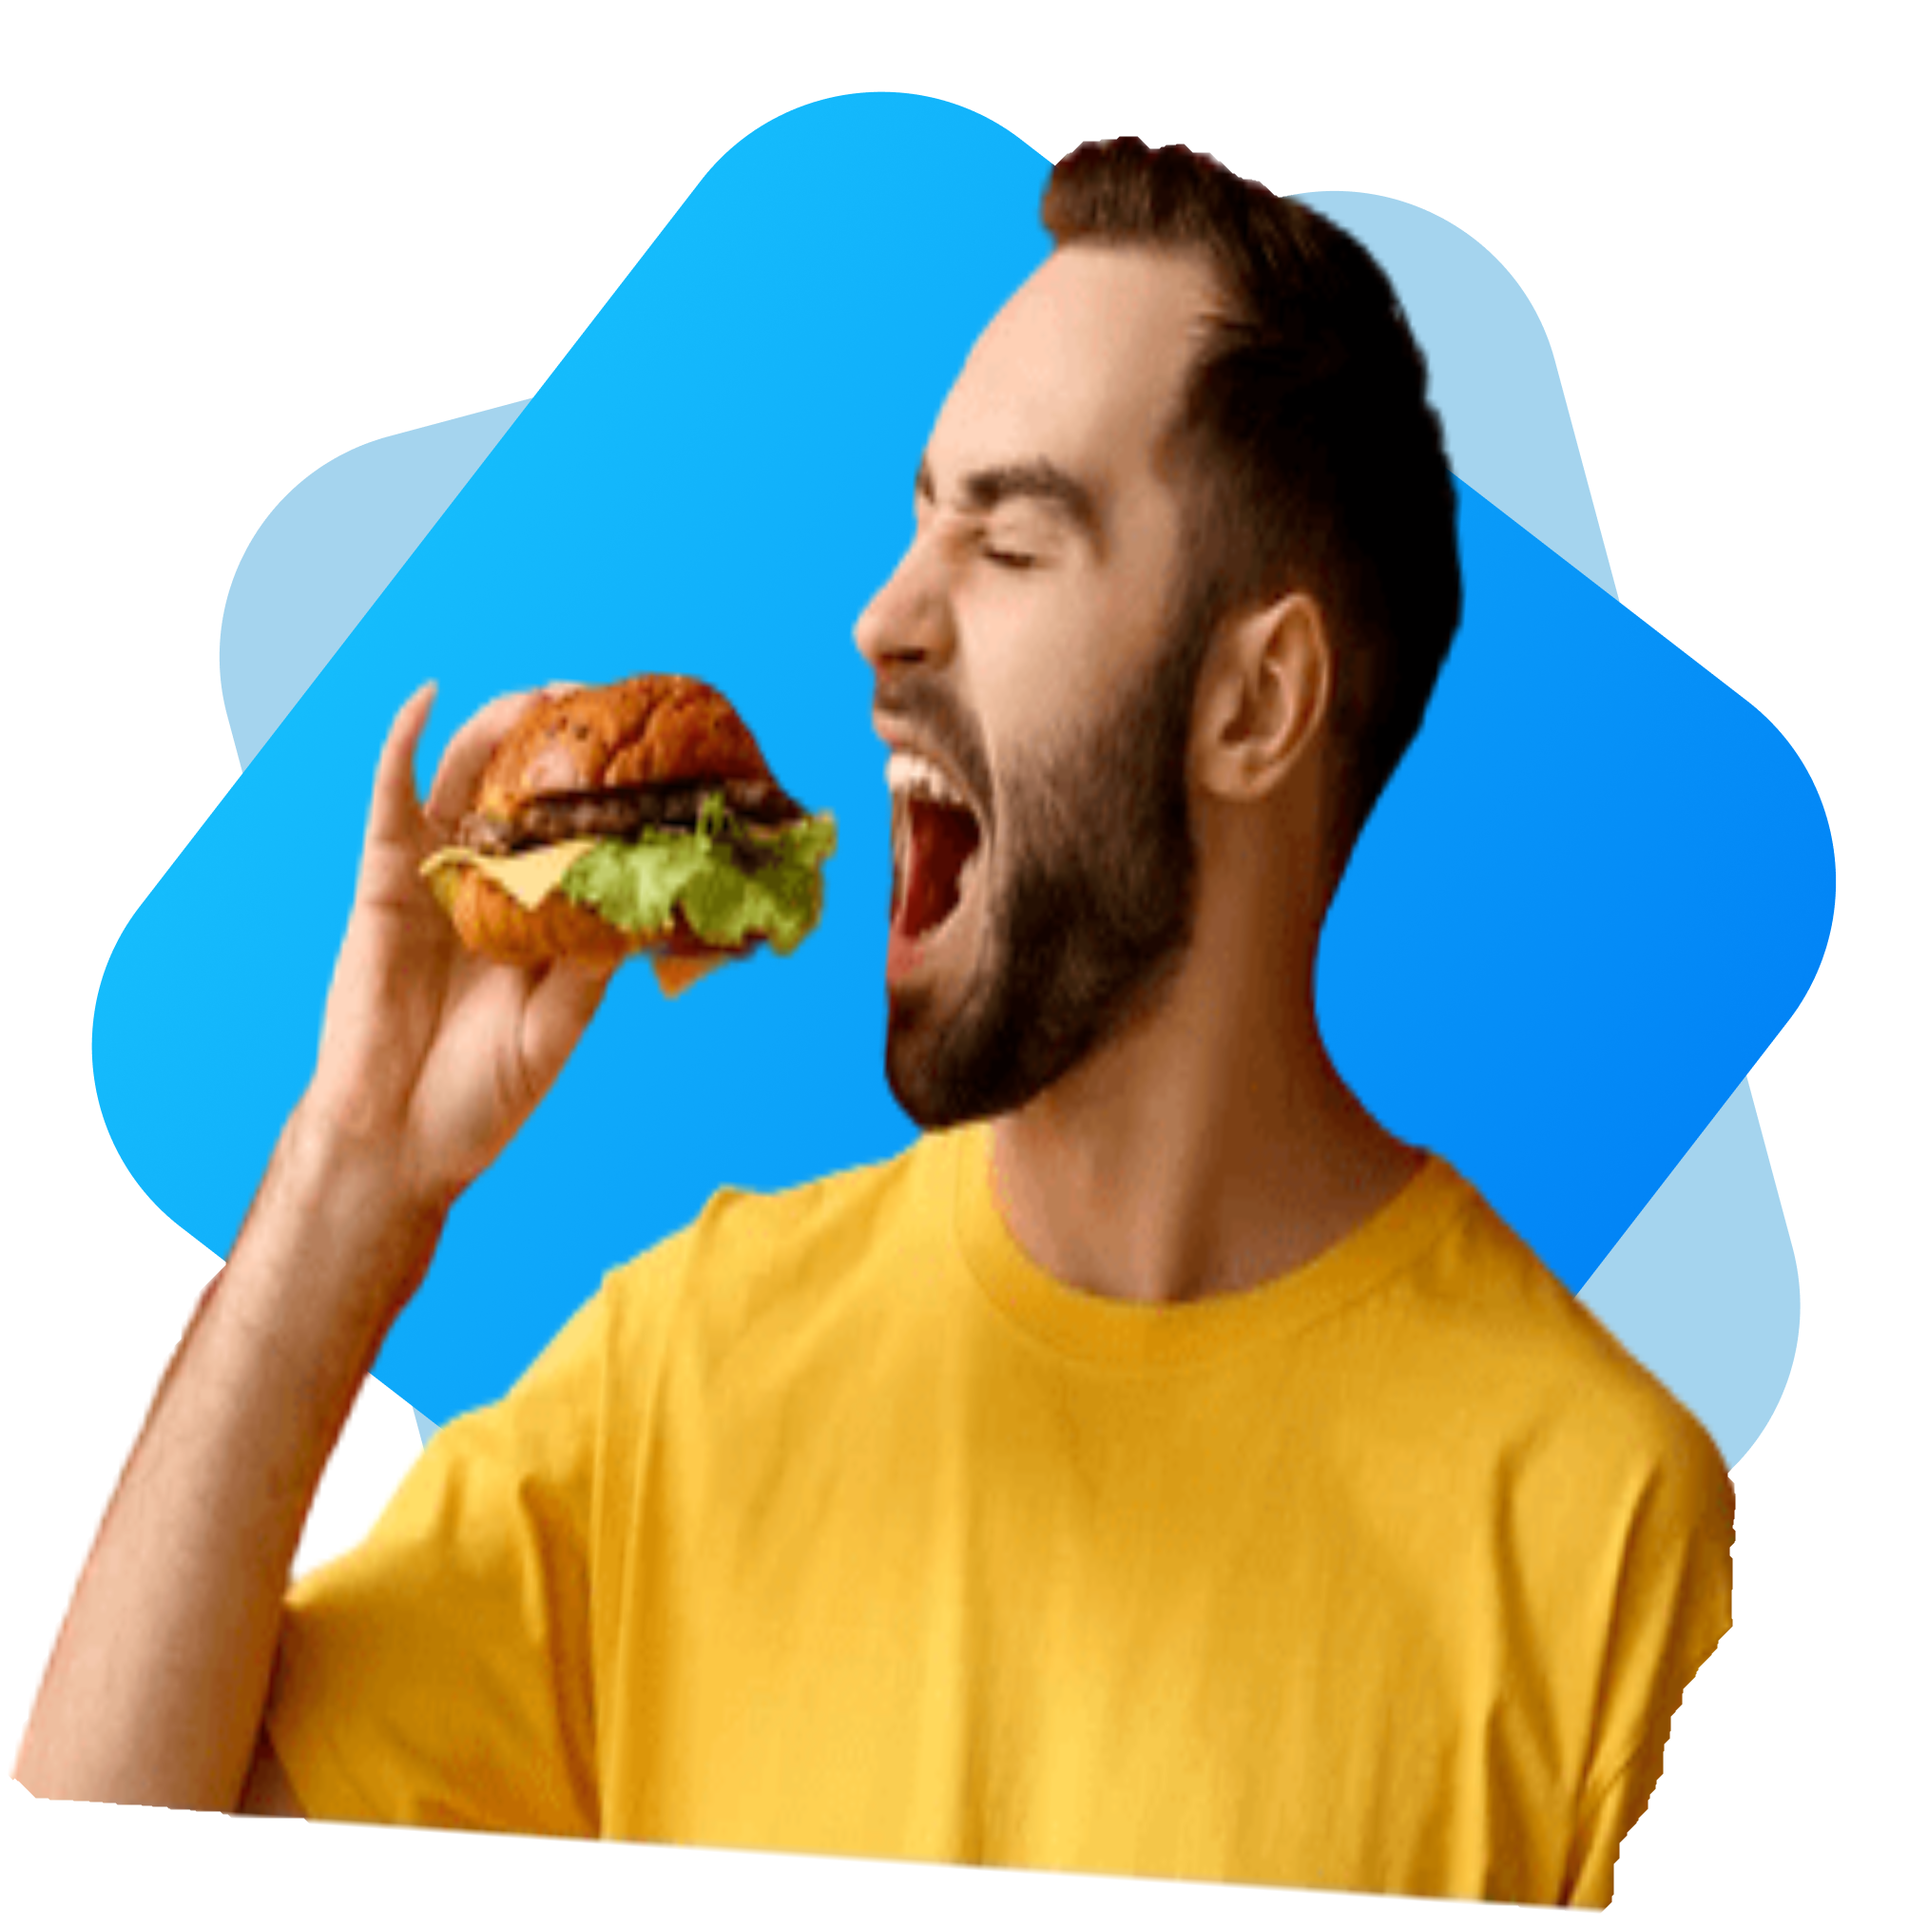
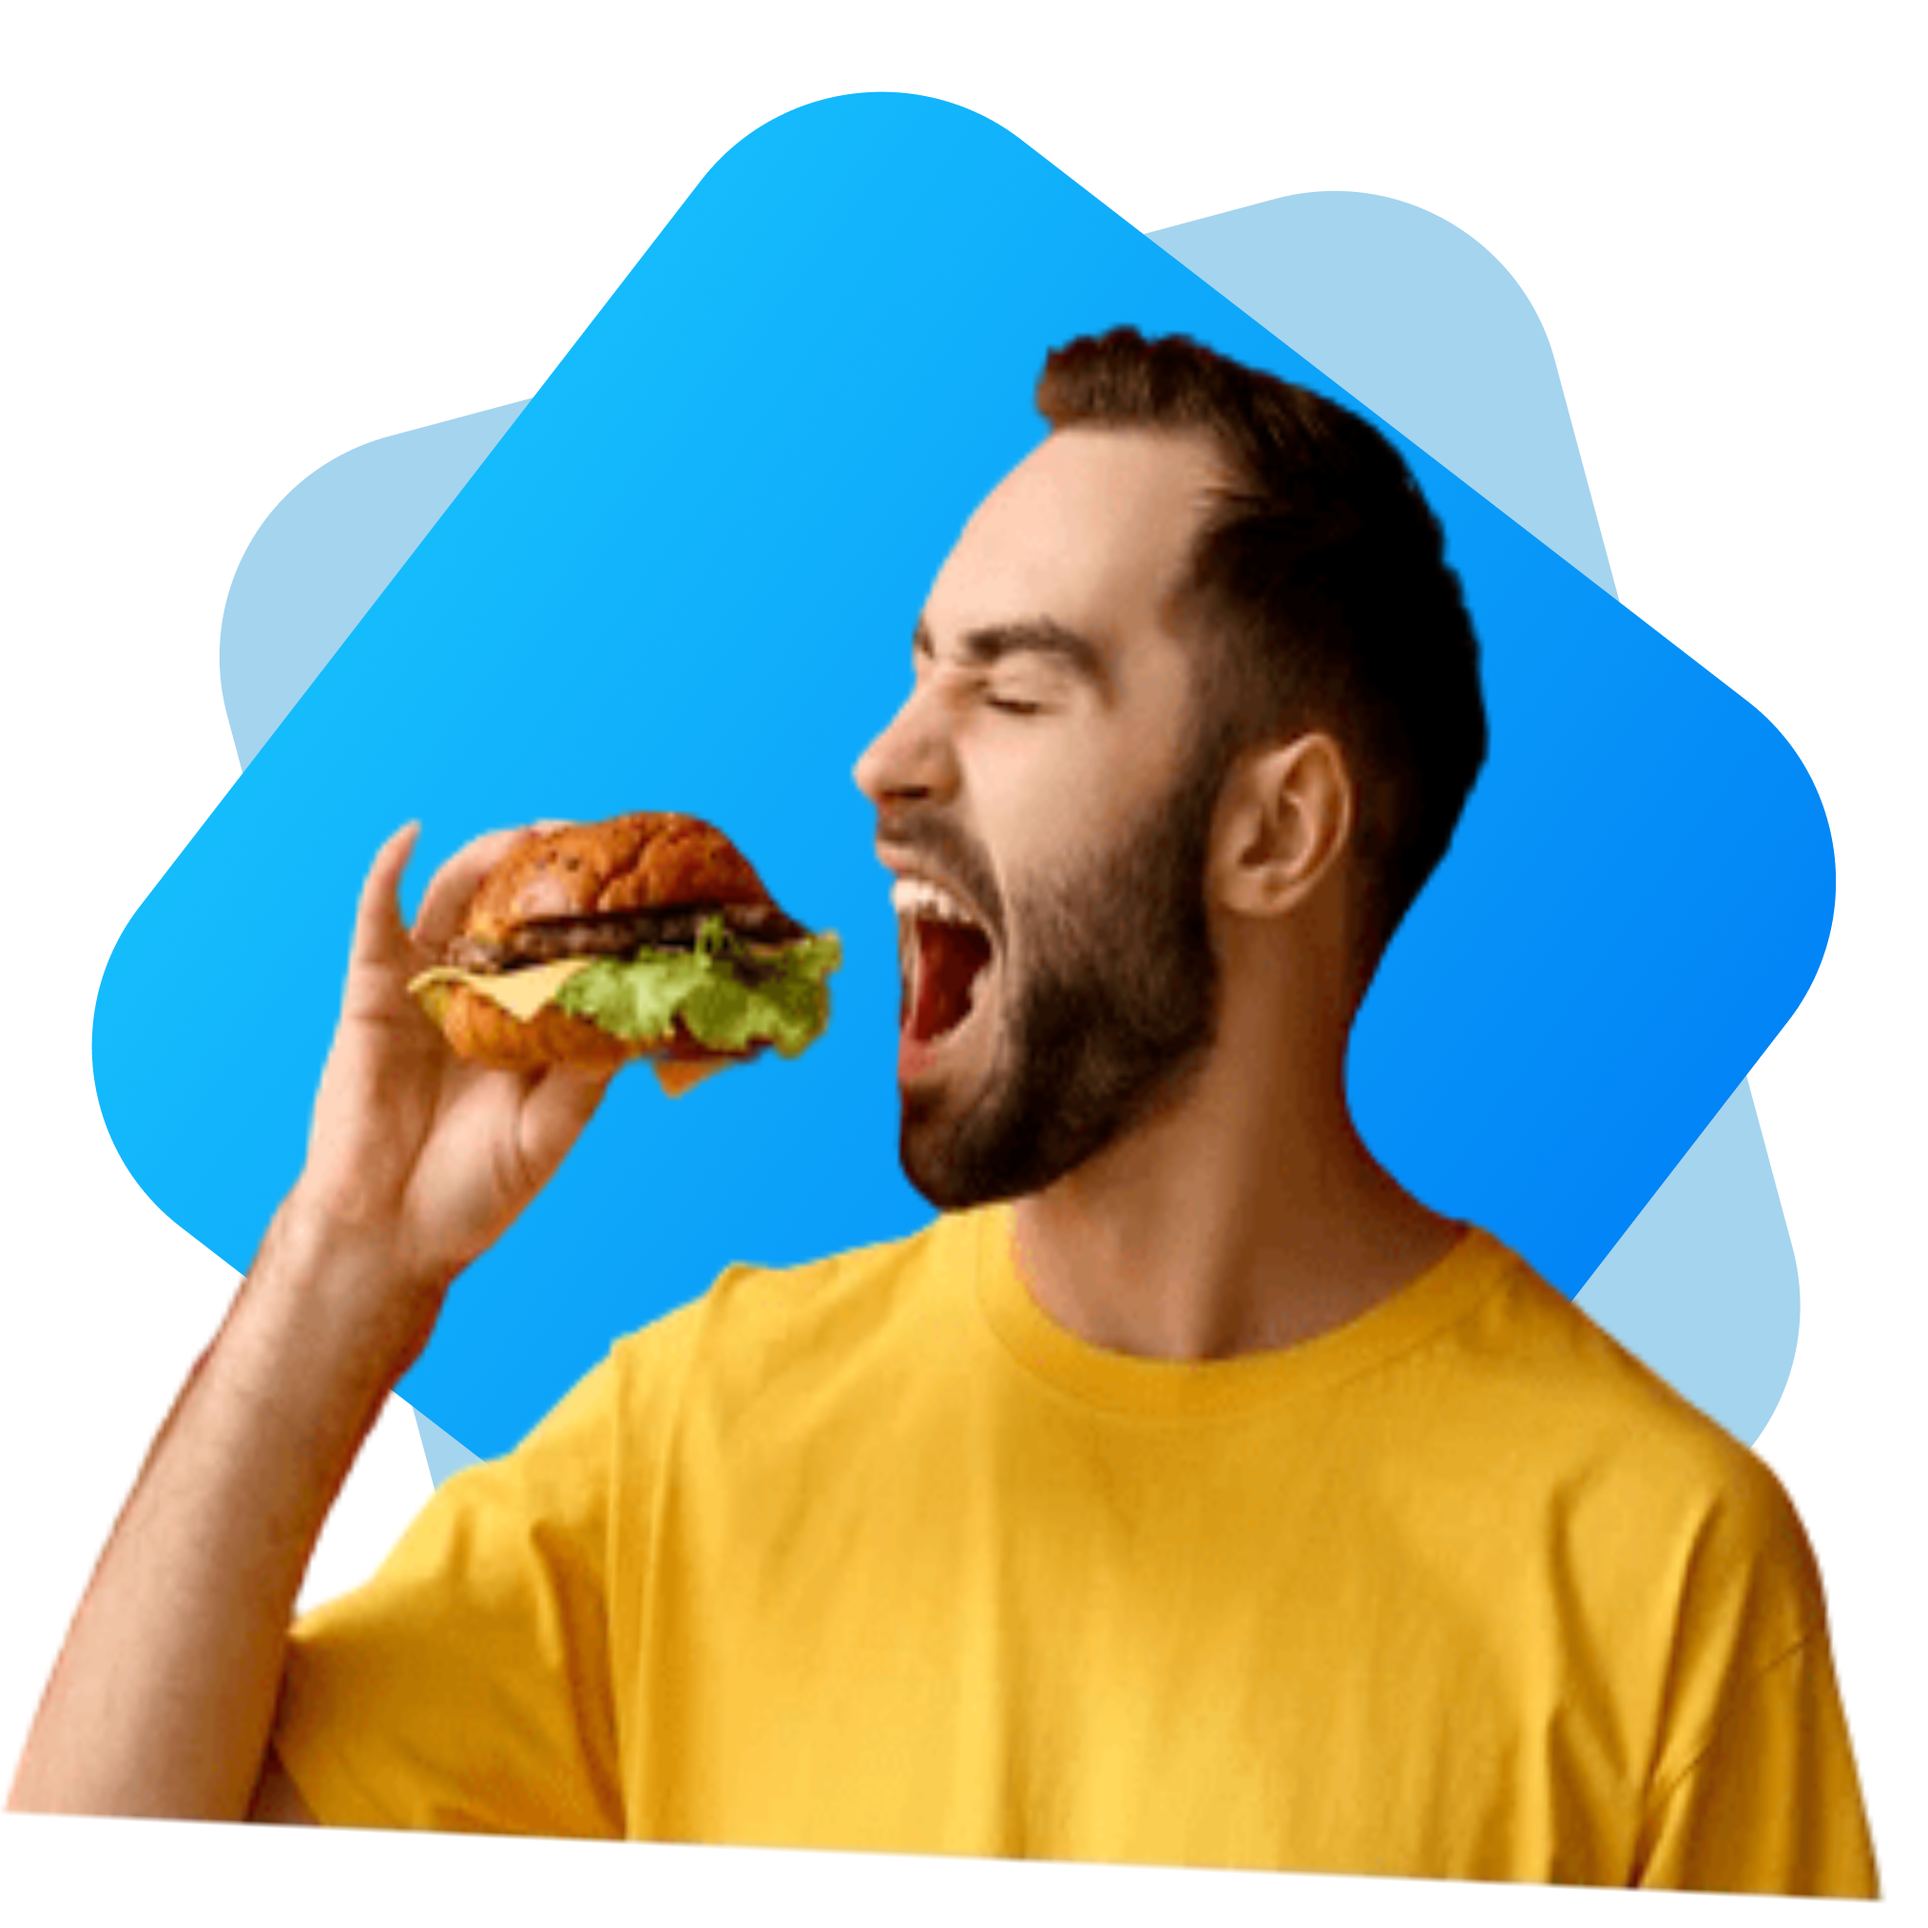
about section done

Changed region(s): [[0.0, 0.0621, 0.9941, 0.9941], [0.0311, 0.7766, 0.0621, 0.8388]]

diff --git a/index.html b/index.html
@@ -13,25 +13,45 @@
             <a href="#"><img src="images/logo.png" alt="logo"></a>
         </div>
         <ul class="menu">
-            <li><a href="home">home</a></li>
-            <li><a href="about">about us</a></li>
-            <li><a href="service">services</a></li>
-            <li><a href="contact">contact</a></li>
+            <li><a href="#home">home</a></li>
+            <li><a href="#about">about us</a></li>
+            <li><a href="#service">services</a></li>
+            <li><a href="#contact">contact</a></li>
         </ul>
     </nav>
 
 
-    <section id="#home">
+    <section id="home">
         <div class="col-lg">
             <img src="images/female/female-holding-burger-bg.png" alt="female-holding-burger">
         </div>
-        <div class="col-lg pd">
+        <div class="col-lg pt">
             <h1>It's Time to Enjoy</h1>
             <h1>Yummy & Tasty Burger from <span>Burgo!</span></h1>
 
             <p>We provide best burger in the town.Are you want to have a burger right now?...So Don't think too much.Just click the order button below.We are ready to serve you.</p>
 
             <a class="order" href="#">order now</a>
+        </div>
+    </section>
+
+
+    <section id="about">
+        <h1>About Us</h1>
+        <div class="col-lg pt">
+            <h2>We provide best burger in the town.We want to create something better than others.</h2>
+            <h3>Why choose our's?</h3>
+            <ul class="point">
+                <li>Special cook to make patty</li>
+                <li>Extra cheesy</li>
+                <li>Discount on first bite</li>
+                <li>Location is easy to find</li>
+                <li>VIP card after three times visit</li>
+            </ul>
+            <a class="order fl" href="#">our menu</a>
+        </div>
+        <div class="col-lg">
+            <img src="images/male/man-eating-bg.png" alt="">
         </div>
     </section>
 </body>

diff --git a/style.css b/style.css
@@ -57,6 +57,8 @@ nav{
 .menu li:hover a{
     color: lavenderblush;
 }
+
+/* home css */
 .col-lg{
     width: 50%;
 }
@@ -71,7 +73,7 @@ span{
     font-size: 48px;
     color: brown;
 }
-.pd{
+.pt{
     padding-top: 16em;
 }
 p{
@@ -98,4 +100,37 @@ p{
     color: lavenderblush;
 
 }
-/* home css */
+
+/* about css */
+#about{
+    display: block;
+}
+.col-lg{
+    float: left;
+}
+#about h1{
+    text-align: center;
+    font-size: 38px;
+}
+h2{
+    font-size: 30px;
+    margin-bottom: 10px;
+}
+h3{
+    color: brown;
+    padding-bottom: 10px;
+    border-bottom: 1px solid;
+    width: 25%;
+}
+.point{
+    list-style: circle;
+    margin: 18px;
+}
+.point li{
+    font-size: 18px;
+    color: grey;
+    line-height: 32px;
+}
+.fl{
+    float: left;
+}
